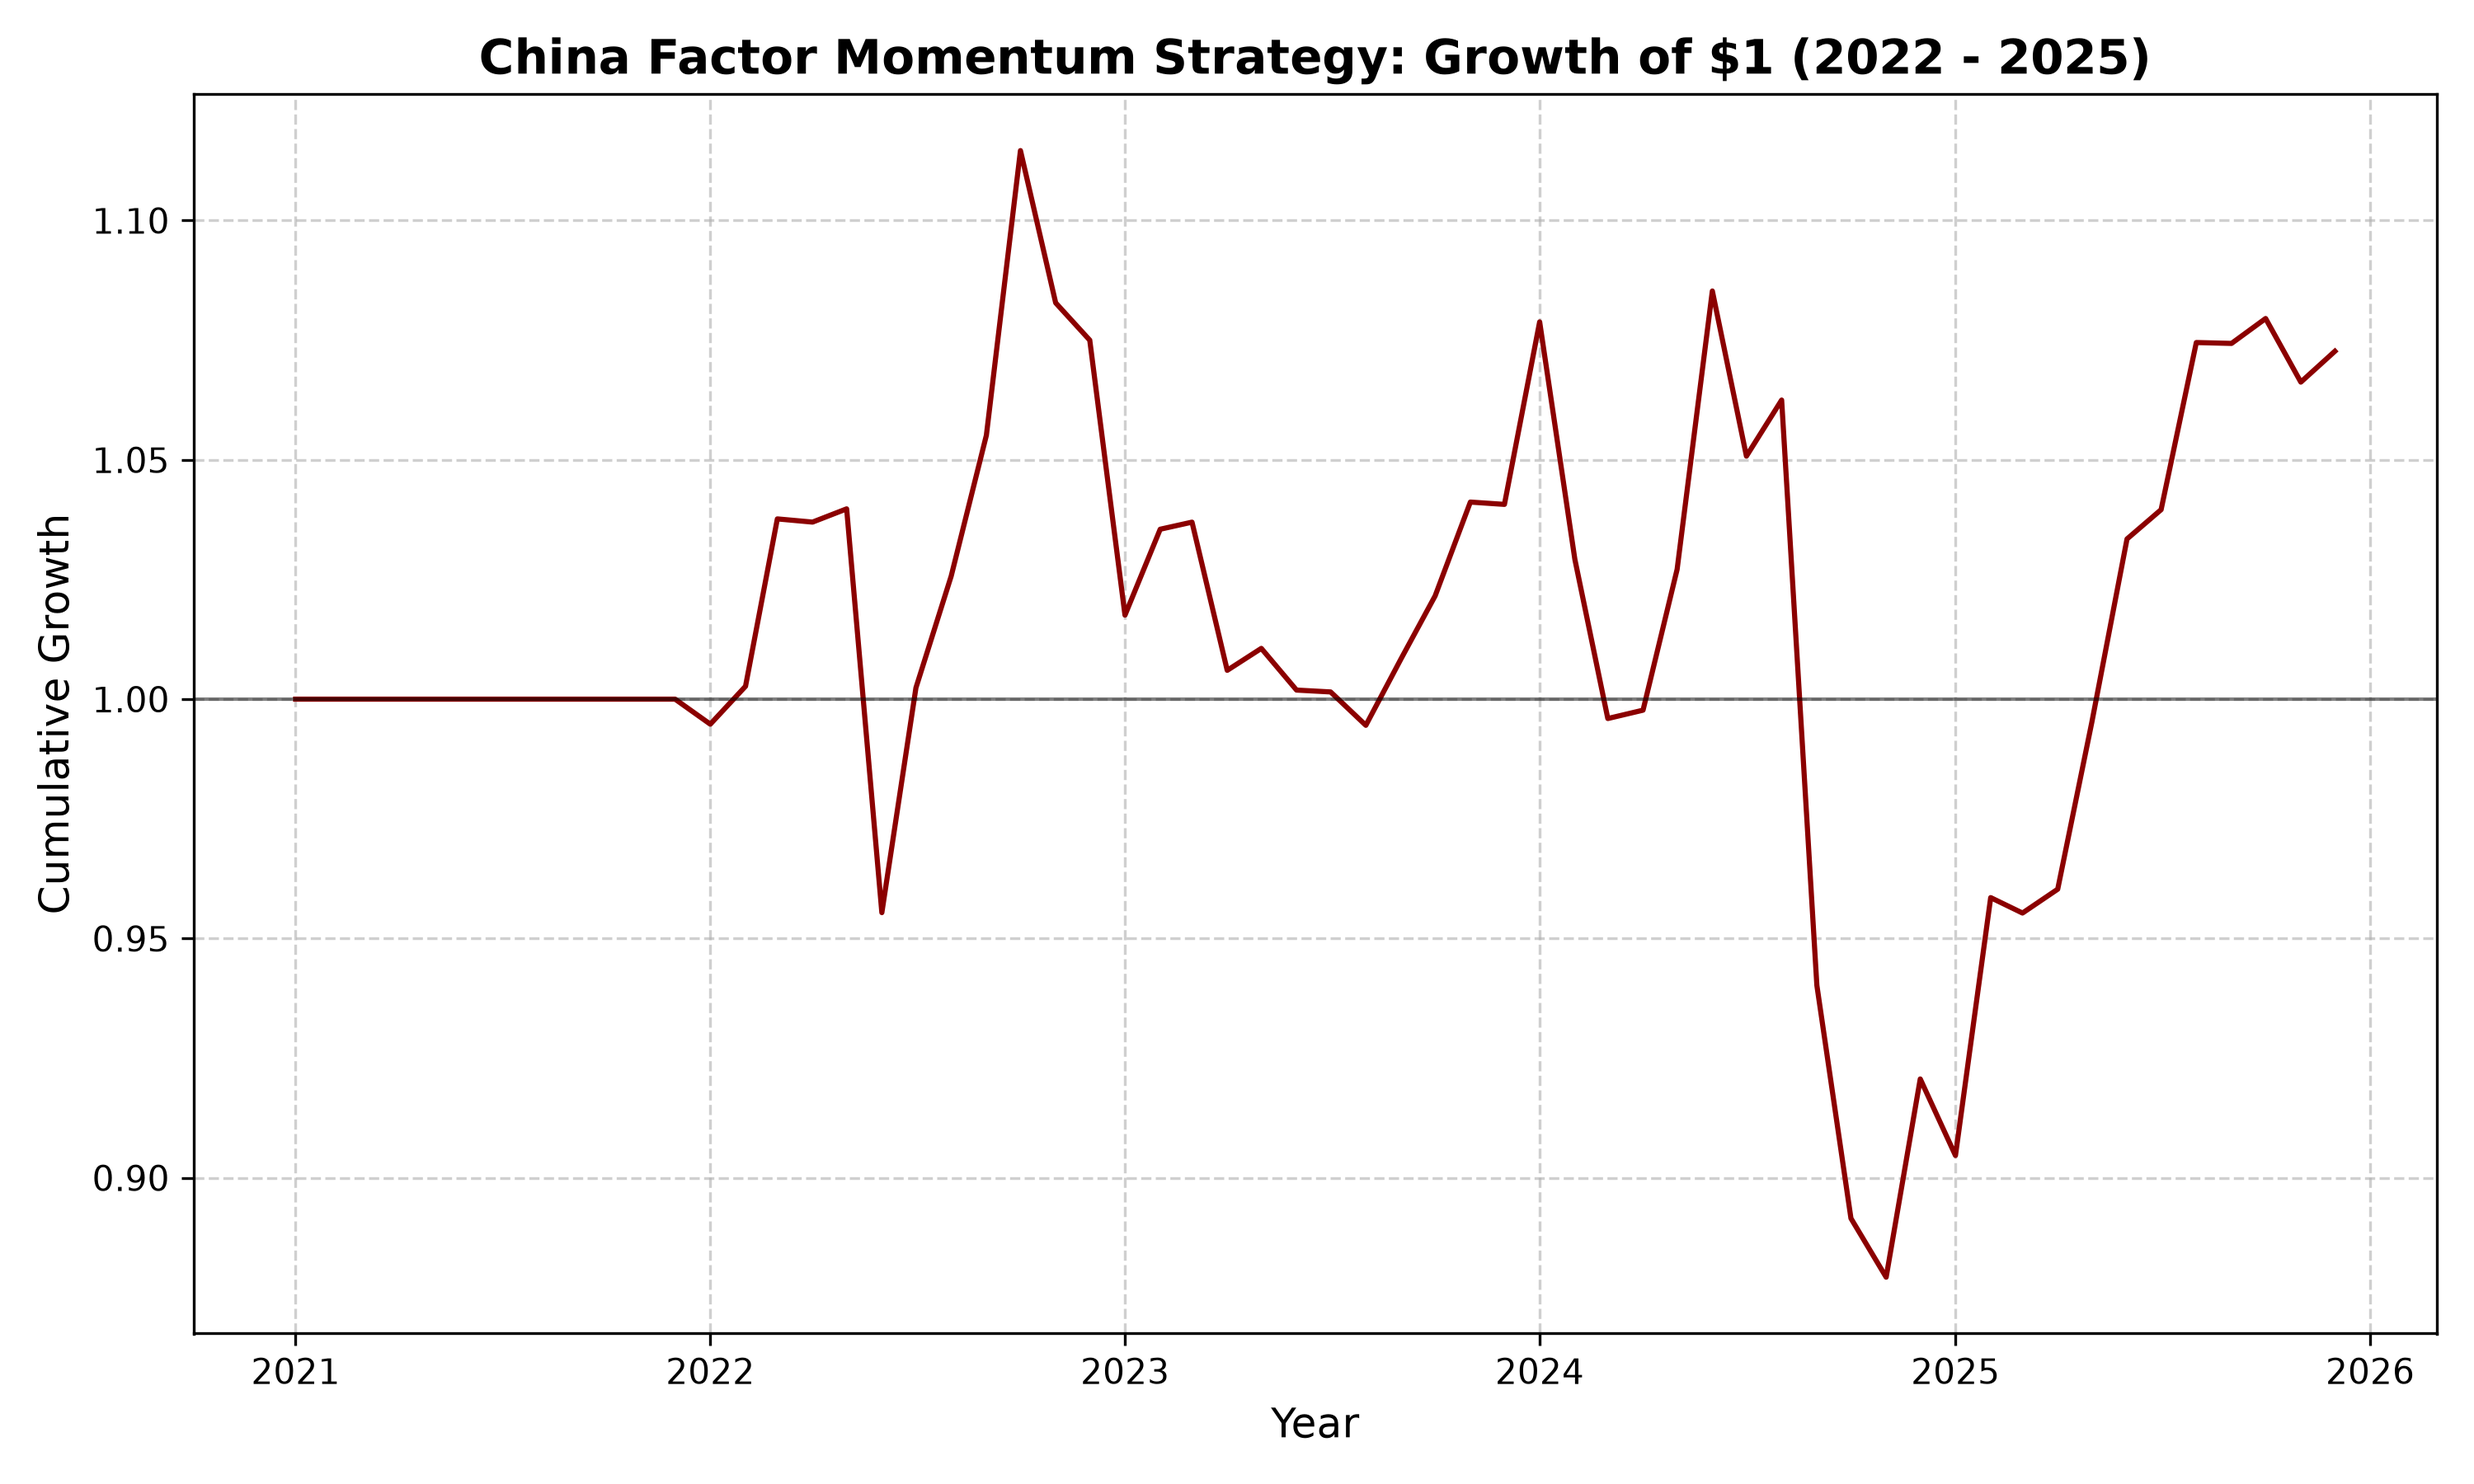
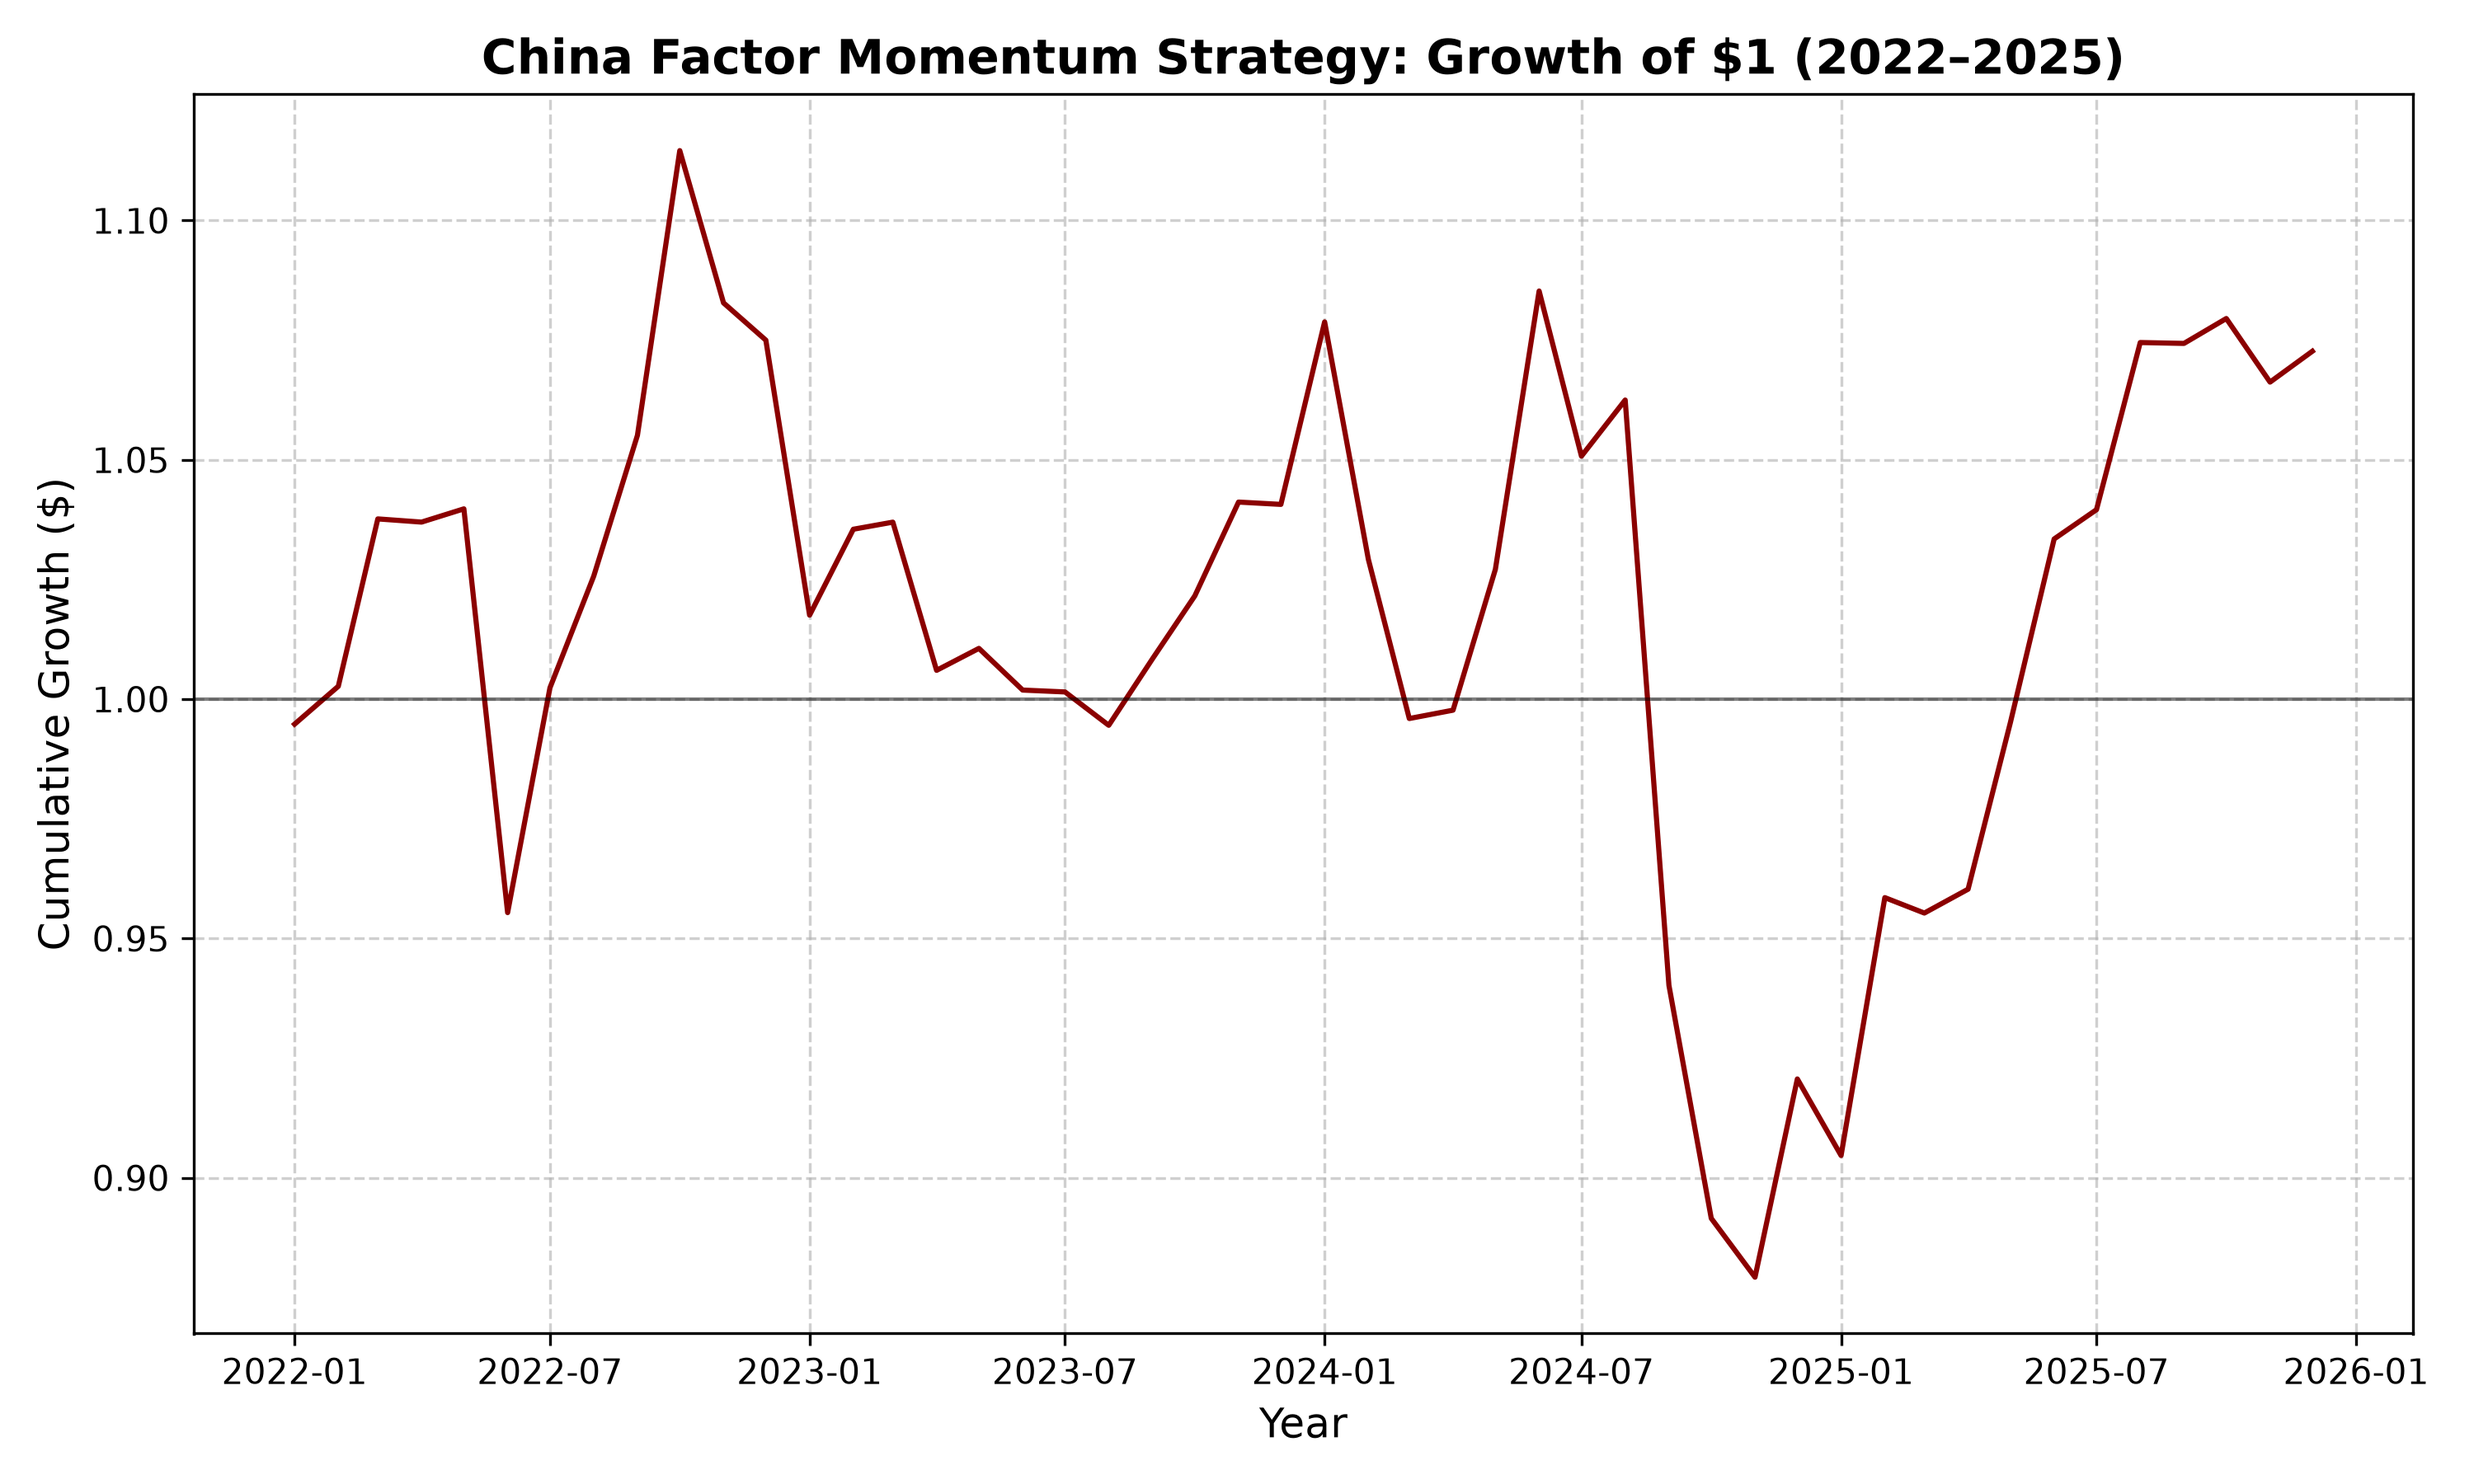
fix: drop warm-up months from FMOM returns, end sample at Dec 2025, regenerate charts and robustness tests

diff --git a/src/plot_results.py b/src/plot_results.py
@@ -1,82 +1,77 @@
+
 """
-Plots the cumulative return (equity curve) of the U.S. and China FMOM strategies.
+Plots the cumulative return (growth of $1) of the U.S. and China FMOM strategies.
+
+This file is self-contained: it reads the cleaned factor data, runs the
+corrected FMOM strategy itself, and saves both charts. It does not depend on
+the CSV files written by run_us_strategy.py or run_china_strategy.py.
+
+Run from the project's main folder:
+    python src/plot_results.py
 """
-import pandas as pd
-import matplotlib.pyplot as plt
 import os
 
-def plot_us_fmom():
-    filepath = 'outputs/tables/us_fmom_returns.csv'
-    
-    # Check if the data exists before trying to plot
-    if not os.path.exists(filepath):
-        print("Error: Run run_us_strategy.py first to generate the returns.")
-        return
-        
-    # Load strategy returns
-    df = pd.read_csv(filepath, index_col=0, parse_dates=True)
-    returns = df.iloc[:, 0]
-    
-    # Calculate cumulative return (Growth of $1)
-    cumulative_returns = (1 + returns).cumprod()
-    
-    # Create the figure and plot the U.S. line
-    fig, ax = plt.subplots(figsize=(10, 6))
-    ax.plot(cumulative_returns.index, cumulative_returns, color='darkblue', linewidth=1.5)
-    
-    # Add titles and formatting
-    ax.set_title('U.S. Factor Momentum Strategy: Growth of $1 (1963 - Present)', fontsize=14, fontweight='bold')
-    ax.set_xlabel('Year', fontsize=12)
-    ax.set_ylabel('Cumulative Growth', fontsize=12)
-    ax.grid(True, linestyle='--', alpha=0.6)
-    
-    # Add a horizontal break-even line at $1.00
-    ax.axhline(y=1.0, color='black', linestyle='-', linewidth=1, alpha=0.5)
-    
-    plt.tight_layout()
-    
-    # Save the figure to the outputs folder
-    output_path = 'outputs/figures/us_fmom_equity_curve.png'
-    plt.savefig(output_path, dpi=300)
-    print(f"Success! U.S. Figure saved to {output_path}")
-    plt.close()
+import matplotlib
+matplotlib.use('Agg')  # save charts to files without needing a screen
+import matplotlib.pyplot as plt
+import pandas as pd
 
-def plot_china_fmom():
-    filepath = 'outputs/tables/china_fmom_returns.csv'
-    
-    # Check if the data exists before trying to plot
-    if not os.path.exists(filepath):
-        print("Error: Run run_china_strategy.py first to generate the returns.")
-        return
+from fmom import calculate_fmom
 
-    # Load strategy returns
-    df = pd.read_csv(filepath, index_col=0, parse_dates=True)
-    returns = df.iloc[:, 0]
-    
-    # Calculate cumulative return (Growth of $1)
-    cumulative_returns = (1 + returns).cumprod()
-    
-    # Create the figure and plot the China line
+FACTORS = ['Mkt-RF', 'SMB', 'HML', 'RMW', 'CMA']
+SAMPLE_END = '2025-12-31'  # last month used in the paper
+LOOKBACK = 12
+OUTPUT_DIR = 'outputs/figures'
+
+
+def load_strategy_returns(data_path):
+    """Load cleaned factor data and return monthly FMOM returns up to SAMPLE_END."""
+    if not os.path.exists(data_path):
+        raise FileNotFoundError(
+            f"{data_path} not found. Run the build_*_panel.py scripts first."
+        )
+    factors = pd.read_csv(data_path, index_col='Date', parse_dates=True)[FACTORS]
+    returns, _ = calculate_fmom(factors, lookback=LOOKBACK)
+    return returns[:SAMPLE_END]
+
+
+def plot_growth_of_dollar(returns, market_name, color, output_file):
+    """Plot and save the growth of $1 invested in the strategy."""
+    cumulative = (1 + returns).cumprod()
+    start, end = returns.index[0], returns.index[-1]
+
     fig, ax = plt.subplots(figsize=(10, 6))
-    ax.plot(cumulative_returns.index, cumulative_returns, color='darkred', linewidth=1.5)
-    
-    # Add titles and formatting
-    ax.set_title('China Factor Momentum Strategy: Growth of $1 (2022 - 2025)', fontsize=14, fontweight='bold')
+    ax.plot(cumulative.index, cumulative, color=color, linewidth=1.5)
+
+    ax.set_title(
+        f'{market_name} Factor Momentum Strategy: Growth of $1 ({start:%Y}–{end:%Y})',
+        fontsize=14, fontweight='bold'
+    )
     ax.set_xlabel('Year', fontsize=12)
-    ax.set_ylabel('Cumulative Growth', fontsize=12)
+    ax.set_ylabel('Cumulative Growth ($)', fontsize=12)
     ax.grid(True, linestyle='--', alpha=0.6)
-    
-    # Add a horizontal break-even line at $1.00
+
+    # Break-even line at $1.00
     ax.axhline(y=1.0, color='black', linestyle='-', linewidth=1, alpha=0.5)
-    
+
     plt.tight_layout()
-    
-    # Save the figure to the outputs folder
-    output_path = 'outputs/figures/china_fmom_equity_curve.png'
+    os.makedirs(OUTPUT_DIR, exist_ok=True)
+    output_path = os.path.join(OUTPUT_DIR, output_file)
     plt.savefig(output_path, dpi=300)
-    print(f"Success! China Figure saved to {output_path}")
-    plt.close()
+    plt.close(fig)
+
+    print(f"{market_name} chart saved to {output_path}")
+    print(f"  Covers {start:%Y-%m} to {end:%Y-%m} ({len(returns)} months), "
+          f"$1 grows to ${cumulative.iloc[-1]:.2f}\n")
+
+
+def main():
+    us_returns = load_strategy_returns('data/processed/us_factors.csv')
+    plot_growth_of_dollar(us_returns, 'U.S.', 'darkblue', 'us_fmom_equity_curve.png')
+
+    china_returns = load_strategy_returns('data/processed/china_factors.csv')
+    plot_growth_of_dollar(china_returns, 'China', 'darkred', 'china_fmom_equity_curve.png')
+
 
 if __name__ == "__main__":
-    plot_us_fmom()
-    plot_china_fmom()
+    main()

diff --git a/src/robustness.py b/src/robustness.py
@@ -1,43 +1,62 @@
 """
-Robustness tests for the FMOM strategy.
+Robustness tests for the FMOM strategy
 """
 import pandas as pd
-import os
 from fmom import calculate_fmom
-from performance import annualized_return, annualized_volatility, sharpe_ratio
+from performance import sharpe_ratio, annualized_return
+
+FACTORS = ['Mkt-RF', 'SMB', 'HML', 'RMW', 'CMA']
+COST = 0.001  # 10 bps per unit of turnover
+START, END = '2022-01-01', '2025-12-31'  # China's trading window
+
+
+def gross_and_net(df, lookback, start=None, end=None):
+    """Run FMOM on the full data, then cut gross and net returns to one window."""
+    strat_ret, weights = calculate_fmom(df, lookback=lookback)
+
+    turnover = weights.diff().abs().sum(axis=1)
+    first_valid = weights.dropna(how='all').index[0]
+    turnover.loc[first_valid] = weights.loc[first_valid].abs().sum()  # opening trade
+    costs = turnover * COST
+
+    # Line up on the same months; keep only months where the strategy is invested
+    both = pd.concat({'gross': strat_ret, 'cost': costs}, axis=1).dropna()
+    both = both[weights.reindex(both.index).abs().sum(axis=1) > 0]
+    both['net'] = both['gross'] - both['cost']
+
+    both = both.loc[start:end]
+    assert (both['cost'] >= 0).all(), "negative cost found"
+    return both
+
+
+def report(label, both):
+    print(f"{label}: {both.index[0]:%Y-%m} to {both.index[-1]:%Y-%m} "
+          f"({len(both)} months)")
+    print(f"  Gross: return {annualized_return(both['gross']):.2%}, "
+          f"Sharpe {sharpe_ratio(both['gross']):.2f}")
+    print(f"  Net:   return {annualized_return(both['net']):.2%}, "
+          f"Sharpe {sharpe_ratio(both['net']):.2f}")
+    print(f"  Avg monthly turnover: {(both['cost'] / COST).mean():.2f}\n")
+
 
 def run_robustness():
-    print("Running Robustness Tests...\n")
-    
-    # Load both datasets
-    df_us = pd.read_csv('data/processed/us_factors.csv', index_col='Date', parse_dates=True)[['Mkt-RF', 'SMB', 'HML', 'RMW', 'CMA']]
-    df_cn = pd.read_csv('data/processed/china_factors.csv', index_col='Date', parse_dates=True)[['Mkt-RF', 'SMB', 'HML', 'RMW', 'CMA']]
+    df_us = pd.read_csv('data/processed/us_factors.csv', index_col='Date',
+                        parse_dates=True)[FACTORS]
+    df_cn = pd.read_csv('data/processed/china_factors.csv', index_col='Date',
+                        parse_dates=True)[FACTORS]
 
-    # --- TEST 1: Transaction Costs (10 bps per trade) ---
-    print("--- Test 1: 10 bps Transaction Costs (U.S. 2021-2025) ---")
-    df_us_recent = df_us['2021-01-01':]
-    
-    # We use the same 12-month lookback
-    strat_ret, weights = calculate_fmom(df_us_recent, lookback=12)
-    
-    # Calculate turnover: absolute change in weights from month to month
-    turnover = weights.diff().abs().sum(axis=1)
-    # Apply cost: 0.10% (0.001) * turnover
-    costs = turnover * 0.001 
-    
-    net_ret = strat_ret - costs
-    
-    print(f"Gross Sharpe (U.S. 2021-2025): {sharpe_ratio(strat_ret):.2f}")
-    print(f"Net Sharpe (after 10 bps costs): {sharpe_ratio(net_ret):.2f}")
+    print("--- Test 1: 10 bps transaction costs (2022-2025) ---")
+    report("U.S. matched window", gross_and_net(df_us, 12, START, END))
+    report("China", gross_and_net(df_cn, 12, START, END))
 
-    # --- TEST 2: 6-Month Lookback ---
-    print("\n--- Test 2: 6-Month Lookback ---")
-    # Run the engine with lookback=6 instead of 12
-    strat_ret_us_6m, _ = calculate_fmom(df_us, lookback=6)
-    strat_ret_cn_6m, _ = calculate_fmom(df_cn, lookback=6)
-    
-    print(f"U.S. Full Sample Sharpe (6-mo lookback): {sharpe_ratio(strat_ret_us_6m):.2f}")
-    print(f"China Sample Sharpe (6-mo lookback): {sharpe_ratio(strat_ret_cn_6m):.2f}")
+    print("--- Test 2: 6-month lookback ---")
+    for name, df in [("U.S. full sample", df_us), ("China", df_cn)]:
+        for lb in (12, 6):
+            both = gross_and_net(df, lb, end=END)
+            print(f"{name}, {lb}-month lookback: Sharpe "
+                  f"{sharpe_ratio(both['gross']):.2f} "
+                  f"({both.index[0]:%Y-%m} to {both.index[-1]:%Y-%m})")
+
 
 if __name__ == "__main__":
     run_robustness()

diff --git a/src/fmom.py b/src/fmom.py
@@ -6,32 +6,33 @@ import numpy as np
 
 def calculate_fmom(factor_returns, lookback=12):
     """Calculate FMOM strategy returns and weights."""
-    # 1. Calculate trailing 12-month cumulative return
-    # We use compounding: (1 + r).rolling(12) - 1
+    # 1. Calculate trailing cumulative return over the lookback window
     trailing_ret = (1 + factor_returns).rolling(window=lookback).apply(np.prod, raw=True) - 1
-    
+
     # 2. Generate signal: 1 for positive, -1 for negative, 0 for zero
     signal = np.sign(trailing_ret)
-    
+
     # 3. Shift signal by 1 month to avoid look-ahead bias
-    # (We form the signal at the end of month t, but trade at month t+1)
+    # (signal formed at the end of month t, traded in month t+1)
     signal = signal.shift(1)
-    
+
     # 4. Calculate equal weights
     long_signals = signal.clip(lower=0)
     short_signals = signal.clip(upper=0)
-    
+
     long_sums = long_signals.sum(axis=1)
     short_sums = short_signals.abs().sum(axis=1)
-    
+
     # Avoid division by zero if all factors are on one side
     long_sums[long_sums == 0] = 1
     short_sums[short_sums == 0] = 1
-    
+
     # Scale long side to +1 and short side to -1
     weights = (long_signals.div(long_sums, axis=0)) + (short_signals.div(short_sums, axis=0))
-    
+
     # 5. Calculate strategy return
-    strategy_returns = (weights * factor_returns).sum(axis=1)
-    
+    # min_count=1: months with no weights (the lookback warm-up) become NaN, not 0,
+    # so they are dropped below together with the empty weights.
+    strategy_returns = (weights * factor_returns).sum(axis=1, min_count=1)
+
     return strategy_returns.dropna(), weights.dropna()
